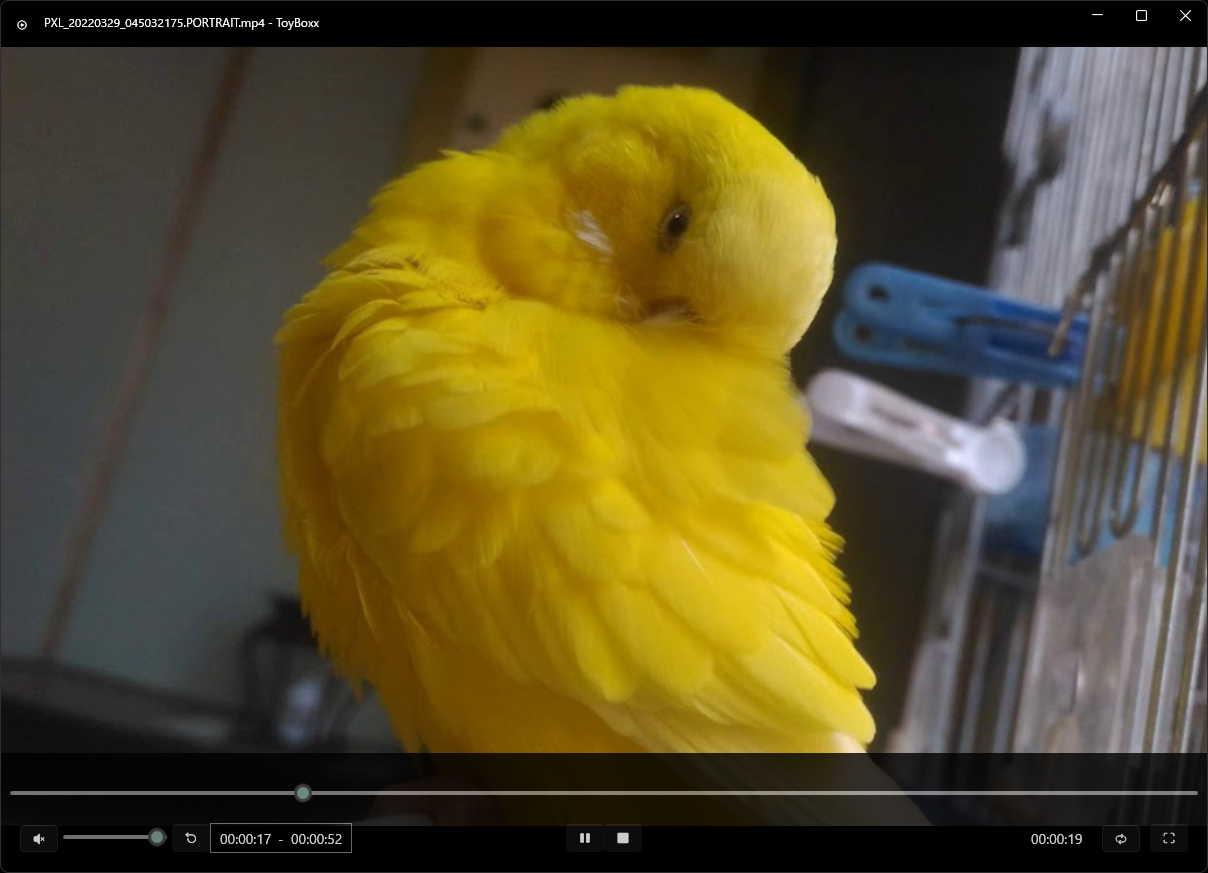
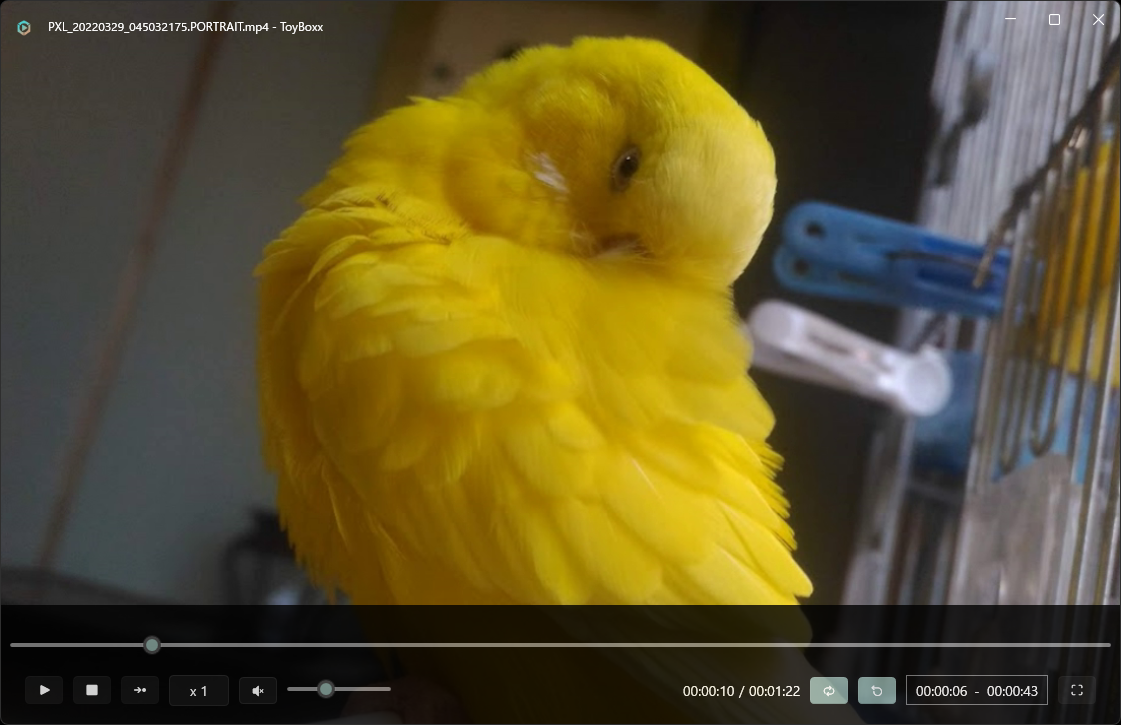
Update README.md

diff --git a/README.md b/README.md
@@ -7,5 +7,6 @@ Limited, buggy, and uncustomizable, but perfect for me.
 
 - [x] Loop playback for a specified section
 - [x] Zoom & Panning
-- [ ] Change playback speed
+- [x] Change playback speed
+- [x] Seek one frame
 - [ ] Take screenshots
